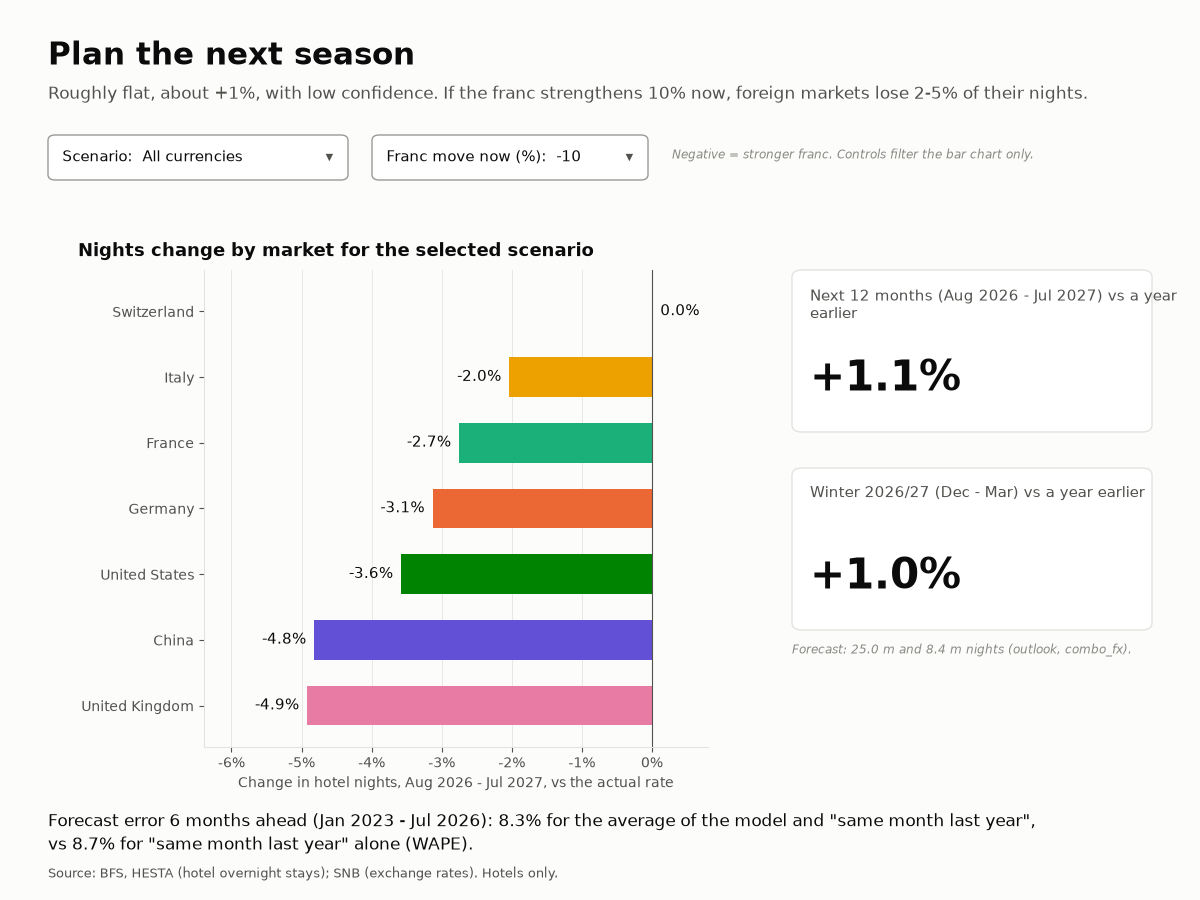
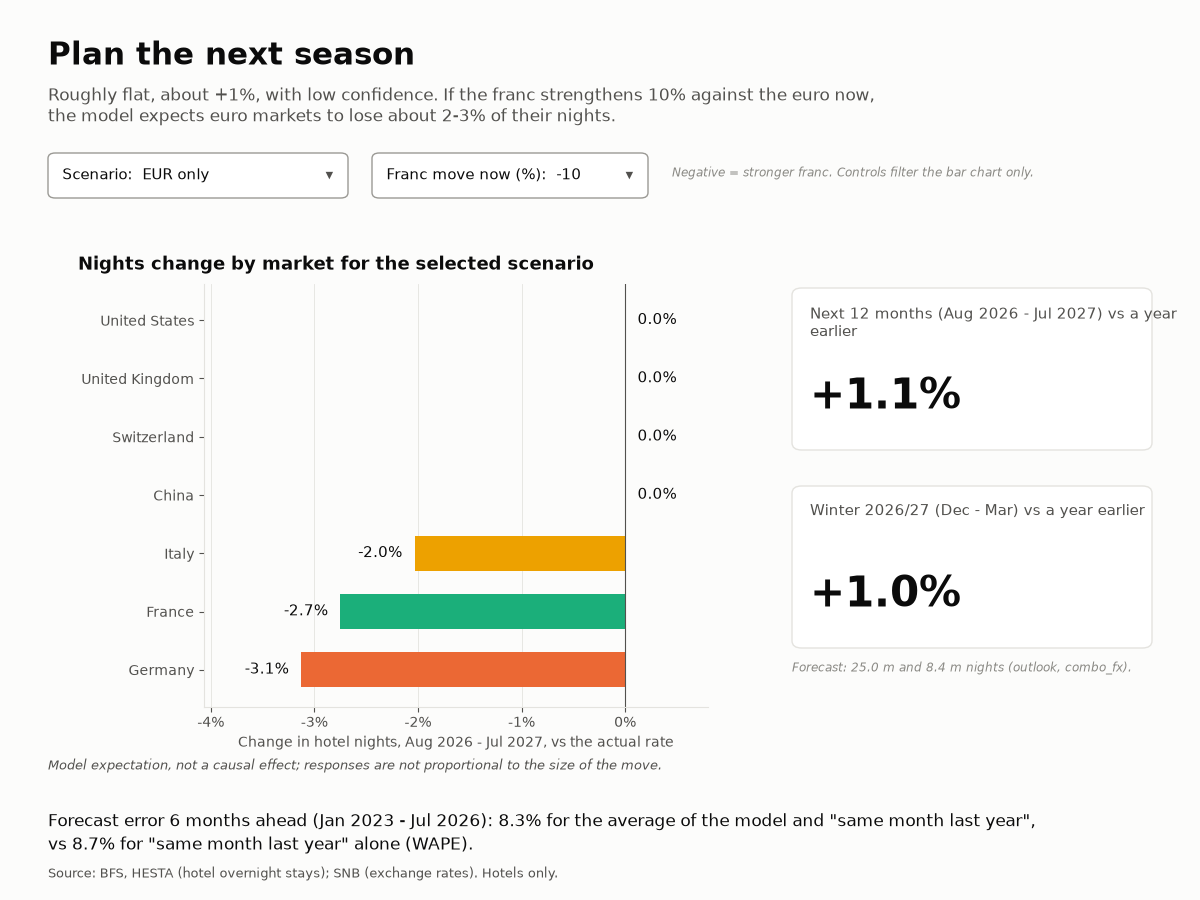
Dashboard page 3: EUR only default, model-expectation subtitle, caveat under the bar chart
Claude-Session: https://claude.ai/code/session_01SNRzUrhNYXwUw89D1N4Rzj

diff --git a/src/dashboard_mockups.py b/src/dashboard_mockups.py
@@ -45,7 +45,7 @@ def page2_data():
     return v
 
 
-def page3_data(scenario_type="All currencies", change=-10):
+def page3_data(scenario_type="EUR only", change=-10):
     s = pd.read_csv(BQ / "fx_scenarios.csv")
     s = s[(s["scenario_type"] == scenario_type) & (s["fx_change_pct"] == change) & (s["level"] == "canton")]
     g = s.groupby("market")[["gb_fx_scenario", "gb_fx_central"]].sum()
@@ -180,16 +180,18 @@ def draw_page2():
 
 def draw_page3():
     by_market, outlook, wape = page3_data()
-    foreign = by_market.drop("Switzerland")
-    assert round(foreign.max()) == -2 and round(foreign.min()) == -5      # "2-5%" in the message
+    euro = by_market[["Germany", "France", "Italy"]]
+    assert (by_market.drop(euro.index) == 0).all()                        # EUR only: other markets do not move
+    lo, hi = round(-euro.max()), round(-euro.min())
+    assert (lo, hi) == (2, 3)
     fig = page("Plan the next season",
-               "Roughly flat, about +1%, with low confidence. If the franc strengthens 10% now, "
-               "foreign markets lose 2-5% of their nights.")
-    control(fig, (0.04, 0.80, 0.25, 0.05), "Scenario", "All currencies")
-    control(fig, (0.31, 0.80, 0.23, 0.05), "Franc move now (%)", "-10")
-    mock_note(fig, 0.56, 0.835, "Negative = stronger franc. Controls filter the bar chart only.")
+               "Roughly flat, about +1%, with low confidence. If the franc strengthens 10% against the euro now,\n"
+               f"the model expects euro markets to lose about {lo}-{hi}% of their nights.")
+    control(fig, (0.04, 0.78, 0.25, 0.05), "Scenario", "EUR only")
+    control(fig, (0.31, 0.78, 0.23, 0.05), "Franc move now (%)", "-10")
+    mock_note(fig, 0.56, 0.815, "Negative = stronger franc. Controls filter the bar chart only.")
 
-    ax = fig.add_axes([0.17, 0.17, 0.42, 0.53])
+    ax = fig.add_axes([0.17, 0.215, 0.42, 0.47])
     colors = [ORIGIN_COLORS[mk] for mk in by_market.index]
     ax.barh(by_market.index, by_market.values, color=colors, height=0.6)
     for y, val in enumerate(by_market.values):
@@ -202,12 +204,14 @@ def draw_page3():
     ax.set_axisbelow(True)
     ax.set_xlabel("Change in hotel nights, Aug 2026 - Jul 2027, vs the actual rate")
     ax.set_title("Nights change by market for the selected scenario", fontsize=13, pad=10, x=-0.25, ha="left")
+    fig.text(0.04, 0.145, "Model expectation, not a causal effect; responses are not proportional to the size of the move.",
+             fontsize=9.5, color=INK_SOFT, style="italic")
 
-    card(fig, (0.66, 0.52, 0.30, 0.18), "Next 12 months (Aug 2026 - Jul 2027) vs a year earlier",
+    card(fig, (0.66, 0.50, 0.30, 0.18), "Next 12 months (Aug 2026 - Jul 2027) vs a year earlier",
          f"{outlook['12m']:+.1f}%")
-    card(fig, (0.66, 0.30, 0.30, 0.18), "Winter 2026/27 (Dec - Mar) vs a year earlier",
+    card(fig, (0.66, 0.28, 0.30, 0.18), "Winter 2026/27 (Dec - Mar) vs a year earlier",
          f"{outlook['winter']:+.1f}%")
-    mock_note(fig, 0.66, 0.285, f"Forecast: {fmt_m(outlook['12m_nights'])} and {fmt_m(outlook['winter_nights'])} "
+    mock_note(fig, 0.66, 0.265, f"Forecast: {fmt_m(outlook['12m_nights'])} and {fmt_m(outlook['winter_nights'])} "
                                 "nights (outlook, combo_fx).")
 
     fig.text(0.04, 0.10, f"Forecast error 6 months ahead (Jan 2023 - Jul 2026): {wape['combo_fx']:.1f}% for the "

diff --git a/docs/dashboard_guide.md b/docs/dashboard_guide.md
@@ -9,7 +9,7 @@ copy the layout, titles and labels from it.
 |---|---|---|
 | 1. What happened | German guests stepped down after the 2011 and 2015 franc shocks and have not come back; US guests more than doubled | `nights_monthly` |
 | 2. Who is most exposed | A 10% stronger franc is linked to 2.2% fewer hotel nights in Graubünden, the most of 7 cantons (interval overlaps Valais) | `canton_vulnerability` |
-| 3. Plan the next season | Roughly flat, about +1%, with low confidence; if the franc strengthens 10% now, foreign markets lose 2-5% of their nights | `fx_scenarios`, `outlook` |
+| 3. Plan the next season | Roughly flat, about +1%, with low confidence. If the franc strengthens 10% against the euro now, the model expects euro markets to lose about 2-3% of their nights | `fx_scenarios`, `outlook` |
 
 Each table and column has a description in BigQuery (hover a field in Looker Studio to see it). The other tables in the
 dataset (`forecasts_backtest`, `interval_coverage`, `resort_pairs`) are not used on the dashboard; `metrics` is only used to
@@ -97,13 +97,14 @@ sensitivity = euro nights on EUR/CHF six months earlier, covid excluded.
 
 Mockup: [`page3.png`](dashboard_mockups/page3.png)
 
-Data elements: the bar chart and two scorecards. The controls select the scenario for the bar chart only; the text line is static.
+Data elements: the bar chart and two scorecards. The controls select the scenario for the bar chart only; the caveat under the chart and the text line are static.
 
 | # | Element | Setup |
 |---|---|---|
-| Control | **Drop-down list** (Insert → Drop-down list), top left | **Data source** `fx_scenarios`; **Control field** `scenario_type`; **Default selection** `All currencies`. **Style**: **Single select** on. Label it *Scenario* |
+| Control | **Drop-down list** (Insert → Drop-down list), top left | **Data source** `fx_scenarios`; **Control field** `scenario_type`; **Default selection** `EUR only` (the project's strongest evidence is for euro markets; for the United Kingdom, FX made forecasts worse in Sprint 3). **Style**: **Single select** on. Label it *Scenario* |
 | Control | **Drop-down list**, next to it | **Data source** `fx_scenarios`; **Control field** `fx_change_pct`; **Sort** `fx_change_pct` **Ascending**; **Default selection** `-10`. **Style**: **Single select** on. Label it *Franc move now (%)*. Add a small grey text next to the controls: *Negative = stronger franc* |
 | 1 | **Bar chart** (Insert → Bar chart, horizontal), left | **Data source** `fx_scenarios`; **Dimension** `market`; **Metric** `Change vs actual rate`; **Sort** `Change vs actual rate` **Ascending**; **Default date range → Custom**: Aug 1, 2026 – Jul 31, 2027; **Filter → Add a filter**: Include `level` Equal to `canton`. **Style**: **Show data labels** on; bar colours by **Dimension value colors** (step 5 of the setup); x-axis title *Change in hotel nights, Aug 2026 - Jul 2027, vs the actual rate*. Chart title: *Nights change by market for the selected scenario* |
+| Text | **Text**, one small line under the bar chart (italic, grey, 10 px) | *Model expectation, not a causal effect; responses are not proportional to the size of the move.* |
 | 2 | **Scorecard**, right, top | **Data source** `outlook`; **Metric** `Change vs a year earlier`, renamed *Next 12 months (Aug 2026 - Jul 2027) vs a year earlier*; **Default date range → Custom**: Aug 1, 2026 – Jul 31, 2027; **Filter**: Include `level` Equal to `canton`. **Style**: **Decimal precision** 1 |
 | 3 | **Scorecard**, right, below | As scorecard 2, renamed *Winter 2026/27 (Dec - Mar) vs a year earlier*, with a second filter: Include `in_winter` Equal to `true` |
 | Text | **Text**, one line at the bottom | *Forecast error 6 months ahead (Jan 2023 - Jul 2026): 8.3% for the average of the model and "same month last year", vs 8.7% for "same month last year" alone (WAPE).* |
@@ -114,9 +115,10 @@ field; `outlook` has no `scenario_type` or `fx_change_pct`, so the scorecards al
 **Checking the text line** (optional, then delete the chart): a scorecard on `metrics` with metric `WAPE` and filters
 `window` = `post_covid`, `h` = 6 and `model` = `combo_fx` (8.3%) or `naive` (8.7%).
 
-Expected values with the default scenario (all currencies, -10%): United Kingdom -4.9%, China -4.8%, United States -3.6%,
-Germany -3.1%, France -2.7%, Italy -2.0%, Switzerland 0.0% (Swiss guests have no FX feature). With *EUR only*, only Germany,
-France and Italy move. Scorecards: **+1.1%** (25.0 m nights) and **+1.0%** (8.4 m nights).
+Expected values with the default scenario (EUR only, -10%): Germany -3.1%, France -2.7%, Italy -2.0%; Switzerland,
+United Kingdom, United States and China 0.0% (Swiss guests have no FX feature; the other three use their own currency, which
+*EUR only* does not move). With *All currencies* at -10%: United Kingdom -4.9%, China -4.8%, United States -3.6%, euro markets
+unchanged. Scorecards: **+1.1%** (25.0 m nights) and **+1.0%** (8.4 m nights).
 
 How to read a scenario (the column descriptions in BigQuery say the same):
 - A scenario means *"if the franc moves X% now"*: the exchange rate at the forecast origin (Jul 2026) is set X% away from
